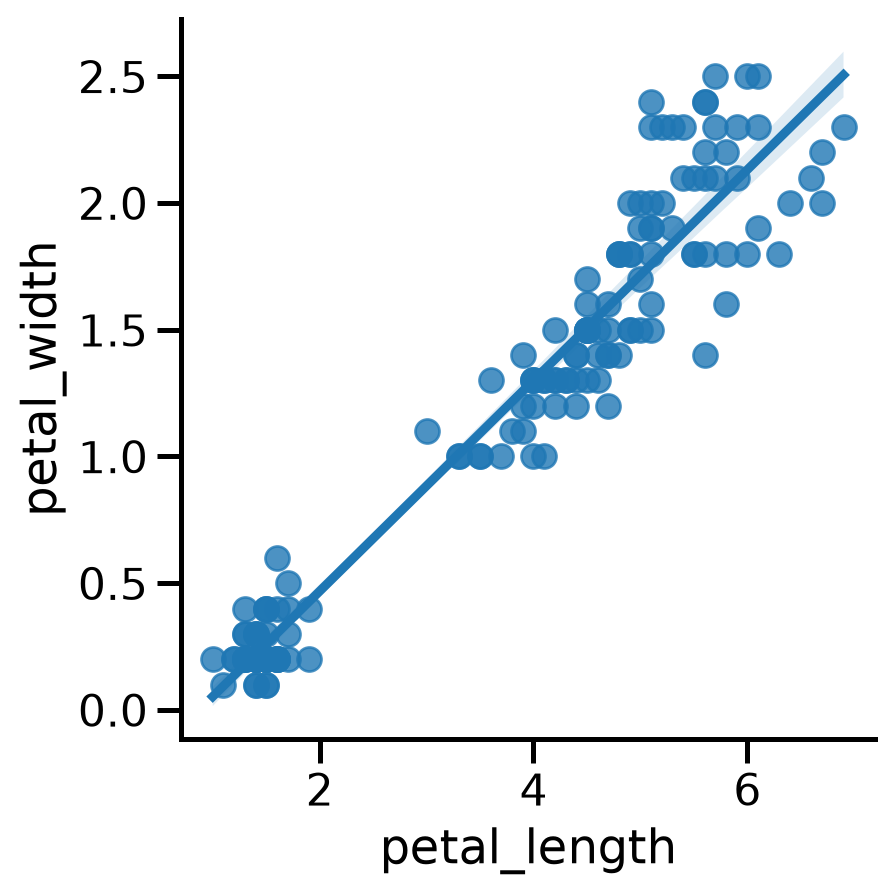
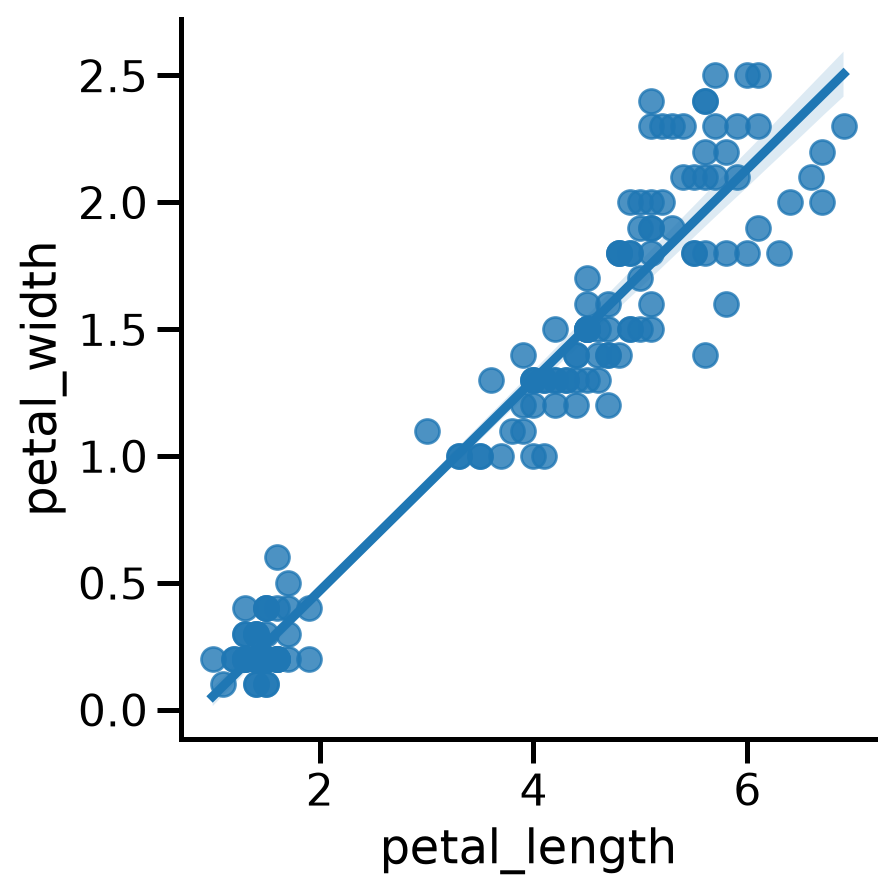
Built site for gh-pages

diff --git a/index.html b/index.html
@@ -7,7 +7,7 @@
 <meta name="viewport" content="width=device-width, initial-scale=1.0, user-scalable=yes">
 
 <meta name="author" content="falak">
-<meta name="dcterms.date" content="2026-11-14">
+<meta name="dcterms.date" content="2026-11-15">
 
 <title>A Demonstration of Correlation Analysis in Python &amp; Quarto – ten-sentence-chi</title>
 <style>
@@ -196,7 +196,7 @@ pre > code.sourceCode > span > a:first-child::before { text-decoration: underlin
     <div>
     <div class="quarto-title-meta-heading">Published</div>
     <div class="quarto-title-meta-contents">
-      <p class="date">November 14, 2026</p>
+      <p class="date">November 15, 2026</p>
     </div>
   </div>
   
@@ -210,7 +210,7 @@ pre > code.sourceCode > span > a:first-child::before { text-decoration: underlin
 
 <section id="introduction" class="level1">
 <h1>Introduction</h1>
-<div id="d7aa1138" class="cell" data-execution_count="1">
+<div id="1f71b22e" class="cell" data-execution_count="1">
 <div class="code-copy-outer-scaffold"><div class="sourceCode cell-code" id="cb1"><pre class="sourceCode python code-with-copy"><code class="sourceCode python"><span id="cb1-1"><a href="#cb1-1" aria-hidden="true" tabindex="-1"></a><span class="im">import</span> pandas <span class="im">as</span> pd</span>
 <span id="cb1-2"><a href="#cb1-2" aria-hidden="true" tabindex="-1"></a><span class="im">import</span> numpy <span class="im">as</span> np</span>
 <span id="cb1-3"><a href="#cb1-3" aria-hidden="true" tabindex="-1"></a></span>
@@ -225,7 +225,7 @@ pre > code.sourceCode > span > a:first-child::before { text-decoration: underlin
 </section>
 <section id="literature-review" class="level1">
 <h1>Literature Review</h1>
-<p>We will come back to the LR.</p>
+<p>The iris measurements analyzed here were collected by the botanist Edgar Anderson, who recorded flower dimensions of irises growing on the Gaspé Peninsula <span class="citation" data-cites="anderson1935">[@anderson1935]</span>. Fisher <span class="citation" data-cites="fisher1936">[-@fisher1936]</span> later used these 150 flowers (50 each of <em>Iris setosa</em>, <em>versicolor</em>, and <em>virginica</em>) to show how several measurements combined can separate species, which made the dataset one of the most widely used examples in statistics. Because petal length and petal width are both continuous measurements of the same organ, Pearson’s product-moment correlation coefficient <span class="citation" data-cites="pearson1895">[@pearson1895]</span> is the standard way to describe how strongly the two move together.</p>
 </section>
 <section id="method" class="level1">
 <h1>Method</h1>
@@ -233,7 +233,7 @@ pre > code.sourceCode > span > a:first-child::before { text-decoration: underlin
 </section>
 <section id="results" class="level1">
 <h1>Results</h1>
-<div id="00886767" class="cell" data-execution_count="2">
+<div id="a9e6b151" class="cell" data-execution_count="2">
 <div class="code-copy-outer-scaffold"><div class="sourceCode cell-code" id="cb2"><pre class="sourceCode python code-with-copy"><code class="sourceCode python"><span id="cb2-1"><a href="#cb2-1" aria-hidden="true" tabindex="-1"></a>corr_val <span class="op">=</span> np.array(df[[<span class="st">'petal_length'</span>, <span class="st">'petal_width'</span>]].corr())[<span class="dv">0</span>][<span class="dv">1</span>]</span>
 <span id="cb2-2"><a href="#cb2-2" aria-hidden="true" tabindex="-1"></a></span>
 <span id="cb2-3"><a href="#cb2-3" aria-hidden="true" tabindex="-1"></a>narrative <span class="op">=</span> <span class="st">"a very strong negative correlation"</span></span>
@@ -273,7 +273,7 @@ Figure&nbsp;1: A scatterplot of petal length and width
 <section id="discussion" class="level1">
 <h1>Discussion</h1>
 <p>Now that this long standing problem of over 10 minutes is resolved thanks to the deligient efforts of UW-Madison’s DSHB program, science has once again triumped in establishing that the relationship that there is a positivly correlated relationship between iris petal width and iris petal length as a matter of imperically certain ground truth.</p>
-<div id="0f262a27" class="cell" data-execution_count="4">
+<div id="d92496a9" class="cell" data-execution_count="4">
 <div class="code-copy-outer-scaffold"><div class="sourceCode cell-code" id="cb4"><pre class="sourceCode python code-with-copy"><code class="sourceCode python"><span id="cb4-1"><a href="#cb4-1" aria-hidden="true" tabindex="-1"></a>sns.lmplot(data<span class="op">=</span>df, x<span class="op">=</span><span class="st">'petal_length'</span> , y<span class="op">=</span><span class="st">'petal_width'</span>)</span>
 <span id="cb4-2"><a href="#cb4-2" aria-hidden="true" tabindex="-1"></a></span>
 <span id="cb4-3"><a href="#cb4-3" aria-hidden="true" tabindex="-1"></a>sns.jointplot(x <span class="op">=</span> df[<span class="st">'petal_length'</span>], y <span class="op">=</span> df[<span class="st">'petal_width'</span>])</span>
